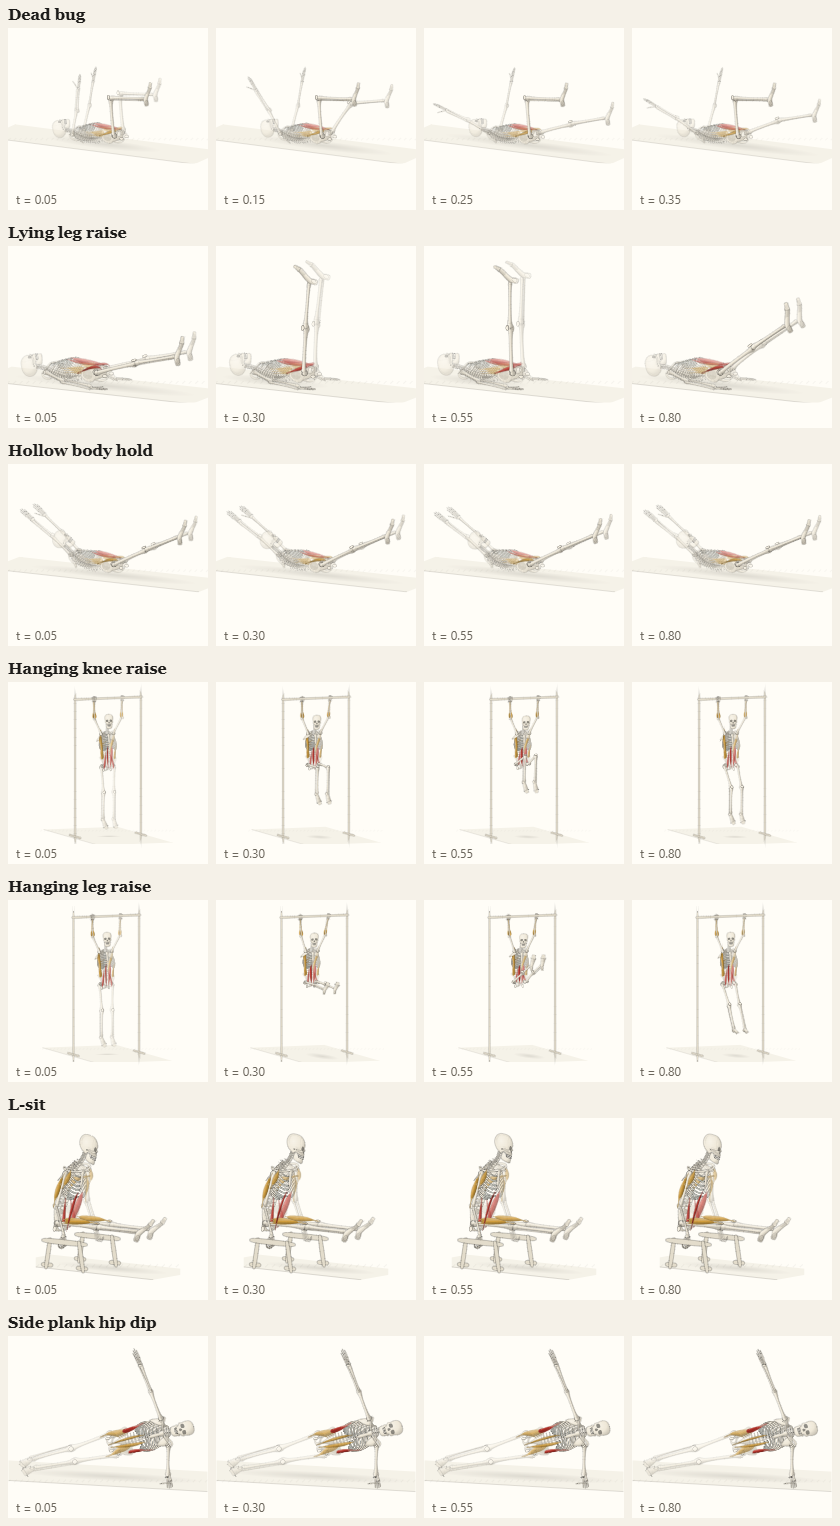
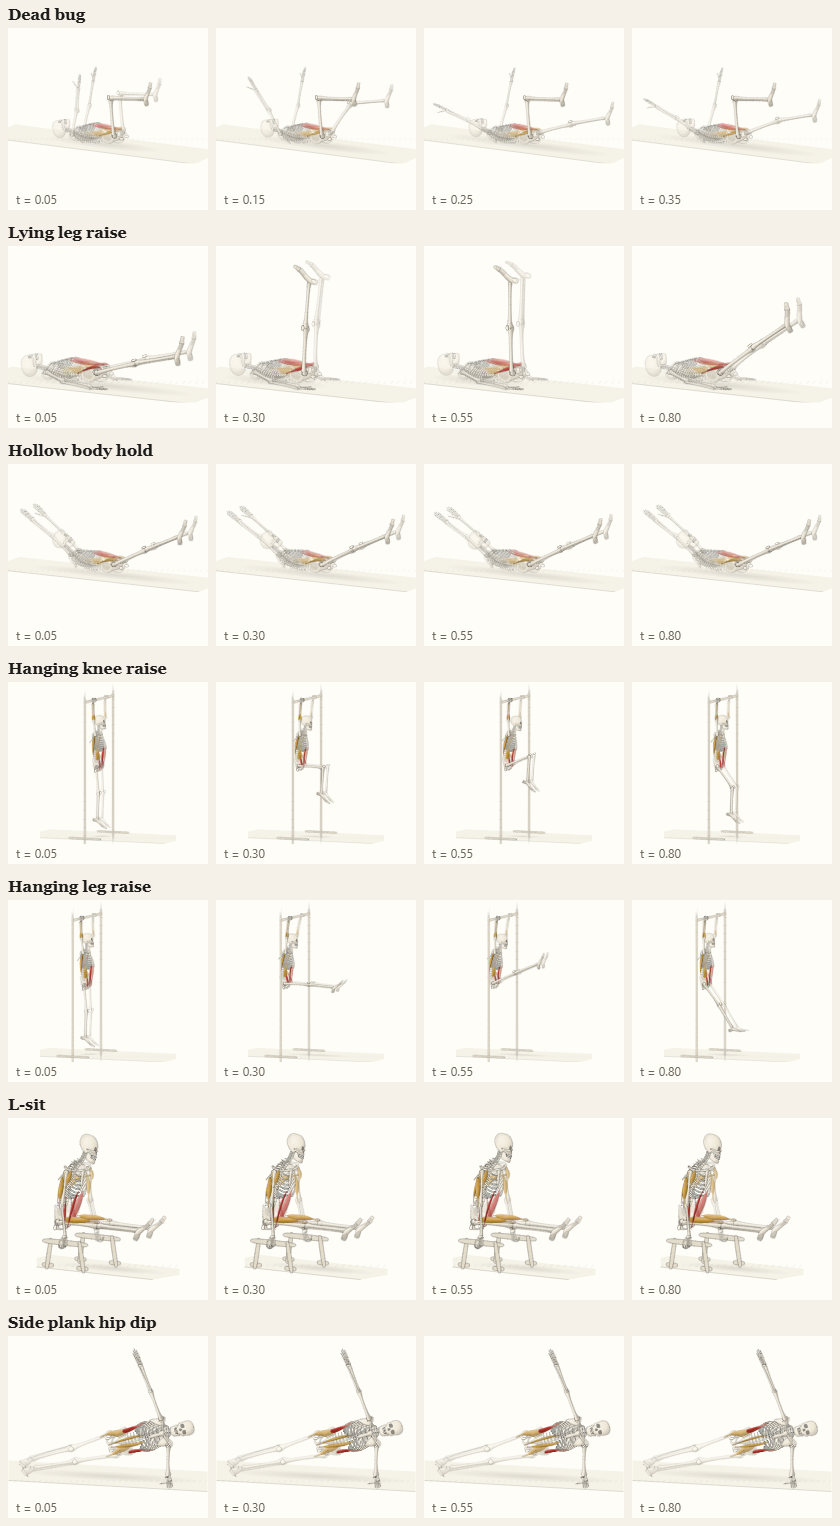
Batch 3 review: walls behind the figure, straight-leg hanging raise, L-sit arms locked
- Wall handstand and wall handstand push-up: the camera turns so the wall is behind the body (it was between the
  camera and the figure). Wall handstand arms locked (98.5%) with the toes on the wall.
- Single-leg calf raise (and any swap clip with keepArms): the wall no longer mirrors to the camera side in the second
  half; the hand stays on the same wall, so the wall stays put. Wall push-up checked: the wall is already beside it.
- Hanging knee and leg raises: side-on camera, so the leg raise reads as nearly straight legs (the knees are at 3°;
  the front view foreshortened them into what looked like a bend).
- L-sit: centre of mass over the hands solved together with the arm reach: arms locked (99.5%).
- Filmstrips in docs/anim-v2/batch3 refreshed.

diff --git a/js/anim/v2/clips/abs.js b/js/anim/v2/clips/abs.js
@@ -76,7 +76,7 @@ const hollow_body_hold = (() => {
 // straight legs to bar height
 function hangRaise(name, top, muscles) {
   return hang(c => ({
-    name, cam: { az: 70, el: 6 }, trail: ['ankleR'], still: .1, muscles,
+    name, cam: { az: 24, el: 6 }, trail: ['ankleR'], still: .1, muscles,
     base: { hipFlex: 4, knee: 6, ankle: 25, hipFlexL: 4, kneeL: 6, fingers: 200 },
     keys: { hang: { rootY: 110, scapElev: -.6, scapProt: -4, thoracic: -2, head: 0 }, top: { rootY: 110, scapElev: -.8, scapProt: -6, head: -3, ...top } },
     timeline: repUp('hang', 'top', { p0: .5, con: 1.3, p1: .4, ecc: 2.2 }),
@@ -97,15 +97,17 @@ const l_sit = (() => {
     name: 'L-sit', cam: { az: 38, el: 8 }, floor: true, trail: [], still: 0, props: parallettes,
     lag: .15, headLag: .3, shift: 0, shiftRoll: 0,
     arms: { both: { mode: 'ik', grip: 'bar', palm: s => [0, 0, s], pole: [-1, -.2, .2], target: (sd, s) => [0, PH, PG * s] } },
-    balance: () => 0,   // the centre of mass over the hands (x = 0)
     base: { pitch: 14, lumbar: 4, thoracic: 3, cervical: 0, head: -4, scapElev: -1.2, scapProt: 4, knee: 0, ankle: 40, fingers: 150, hipAbd: 0 },
     keys: { a: { rootY: 60, hipFlex: 96 }, b: { rootY: 60, hipFlex: 97, thoracic: 3.6 } },
     timeline: hold('a', 'b', 4.4),
     prep({ settle }) {
       for (const n in c.keys) {
         const k = c.keys[n];
-        k.rootY = solve(PH + 10, PH + 80, y => settle({ ...k, rootY: y }).reach, .985);
         k.hipFlex = solve(60, 130, h => { const S = settle({ ...k, hipFlex: h }, true); return S.pt.ankleR[1] - S.pt.hipR[1]; }, 0);   // legs level
+        for (let i = 0; i < 4; i++) {   // the centre of mass over the hands (x = 0), arms locked (99.5%)
+          k.rootX = solve(-40, 40, x => settle({ ...k, rootX: x }).com[0], 0);
+          k.rootY = solve(PH + 10, PH + 80, y => settle({ ...k, rootY: y }).reach, .995);
+        }
       }
     },
   };
@@ -184,12 +186,18 @@ function handstand(f) {
 // squeezed, ribs in; a breathing hold
 const WALL_X = -26;
 const wall_handstand = handstand(c => ({
-  name: 'Wall handstand', cam: { az: 50, el: 6 },
+  name: 'Wall handstand', cam: { az: 68, el: 6 },
   keys: { a: { pitch: 186, balance: false, rootX: -6 }, b: { pitch: 186, balance: false, rootX: -6, scapElev: 1.8 } },
   timeline: hold('a', 'b', 4.4),
   props: [box([WALL_X - 16, 0, -60], [WALL_X, 230, 60], -1e4)],
   prep2({ settle }) {   // feet lean on the wall: toes just touching it
-    for (const n in c.keys) { const k = c.keys[n]; k.pitch = solve(178, 200, p => settle({ ...k, pitch: p }, true).pt.toeR[0], WALL_X + .6); }
+    for (const n in c.keys) {
+      const k = c.keys[n];
+      for (let i = 0; i < 3; i++) {   // arms locked (98.5%) with the toes on the wall
+        k.pitch = solve(178, 200, p => settle({ ...k, pitch: p }, true).pt.toeR[0], WALL_X + .6);
+        k.rootY = solve(80, 170, y => settle({ ...k, rootY: y }).reach, .985);
+      }
+    }
   },
 }));
 // freestanding handstand: kick up with control, then balance on the fingertips, wrists, shoulders and hips stacked:
@@ -204,7 +212,7 @@ const freestanding_handstand = handstand(() => ({
 // head tripod (the crown just above the floor), then press hard, glutes and legs squeezed
 const WHX = 24;
 const wall_handstand_push_up = handstand(c => ({
-  name: 'Wall handstand push-up', cam: { az: -36, el: 6 }, trail: ['headTop'], still: .1,
+  name: 'Wall handstand push-up', cam: { az: -112, el: 6 }, trail: ['headTop'], still: .1,
   muscles: { primary: ['front_delts', 'triceps'], secondary: ['side_delts', 'traps', 'upper_back'] },
   keys: { top: { pitch: 175, balance: false }, bottom: { pitch: 172, balance: false, scapElev: 2.2, scapUp: 6, cervical: -10, head: -14 } },
   timeline: rep('top', 'bottom', { p0: .4, ecc: 2.2, con: 1.2 }),

diff --git a/js/anim/v2/plate.js b/js/anim/v2/plate.js
@@ -533,7 +533,8 @@ export function createPlatePlayer(container, animId, { primary, secondary, size 
     st.props = st.props0 = (typeof clip.props === 'function' ? clip.props(clip) : clip.props) || [];
     // sides alternate (swap): the props swap too (a band anchored on the other side)
     const fz = v => (typeof v === 'function' ? v : [v[0], v[1], -v[2]]);
-    st.propsM = clip.swap ? st.props0.map(p => ({ ...p, ...(p.a ? { a: fz(p.a) } : {}), ...(p.b && p.t === 'box' ? { a: [p.a[0], p.a[1], -p.b[2]], b: [p.b[0], p.b[1], -p.a[2]] } : p.b ? { b: fz(p.b) } : {}),
+    // (keepArms: the support hand stays on the same wall, so the props stay too)
+    st.propsM = clip.swap && !clip.keepArms ? st.props0.map(p => ({ ...p, ...(p.a ? { a: fz(p.a) } : {}), ...(p.b && p.t === 'box' ? { a: [p.a[0], p.a[1], -p.b[2]], b: [p.b[0], p.b[1], -p.a[2]] } : p.b ? { b: fz(p.b) } : {}),
       ...(p.pts ? { pts: p.pts.map(fz) } : {}), ...(p.c ? { c: fz(p.c) } : {}), ...(p.n ? { n: fz(p.n) } : {}) })) : st.props0;
     st.pnames = st.props.map((_, i) => 'prop' + i);
     st.props.forEach((p, i) => { G[st.pnames[i]] = new Grp(root, st.pnames[i]); });
